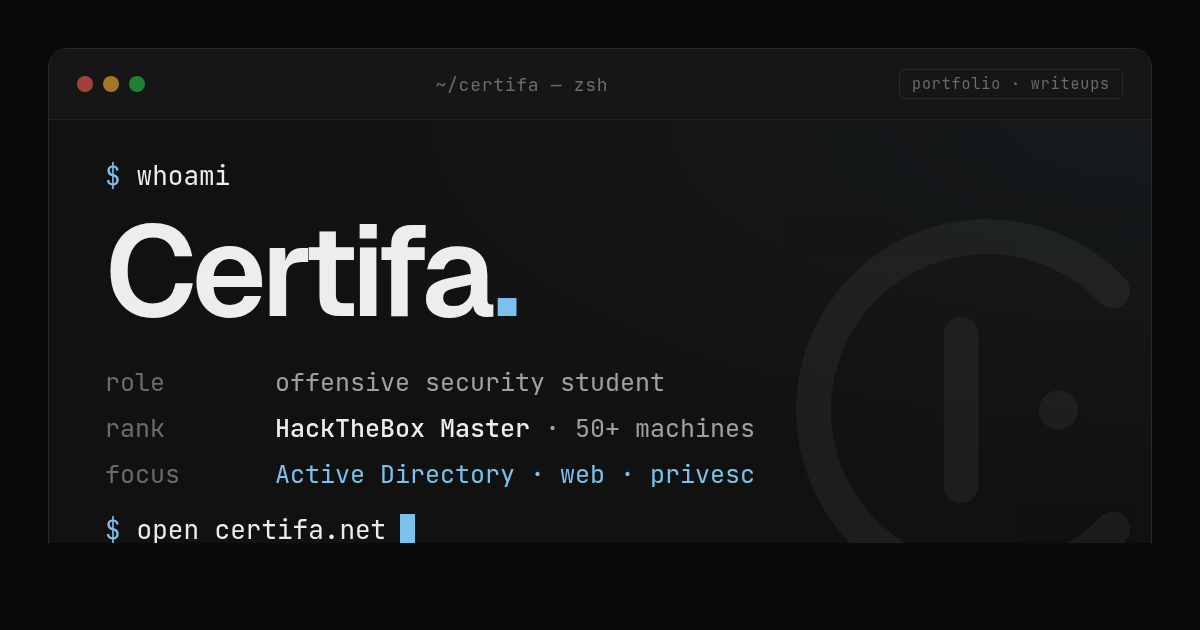
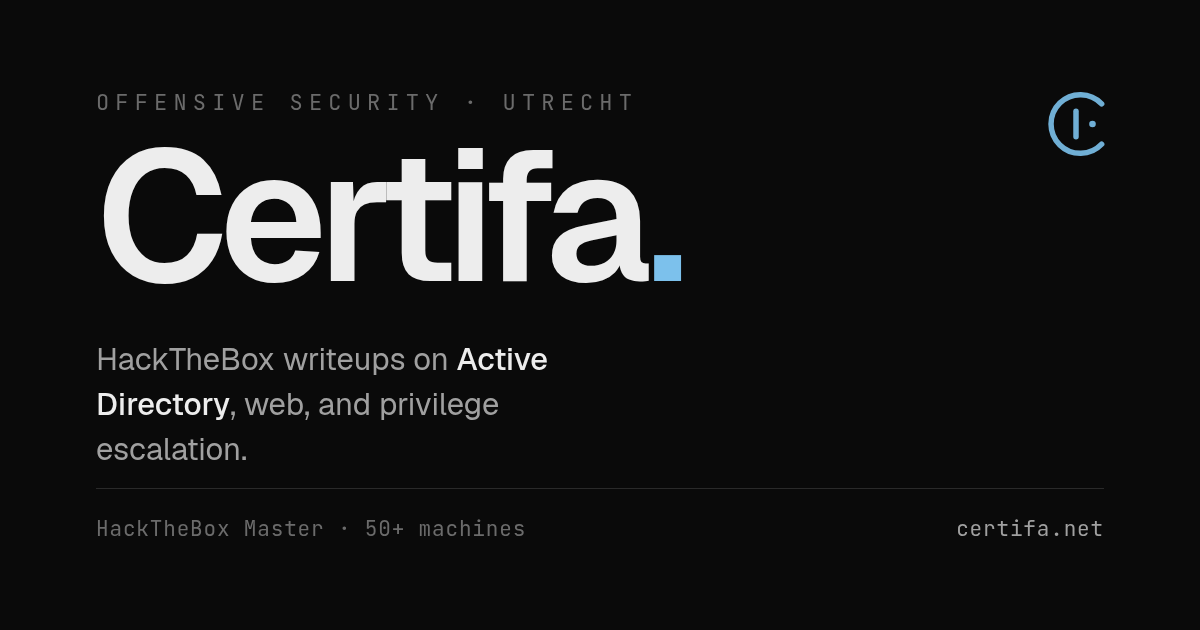
design(brand): replace terminal OG card with clean editorial masthead
Terminal-style card read as edgy/corny (against the "professional, not
edgy" brief). New card: big Certifa wordmark, mono kicker, one-line
descriptor, hairline footer — matches the site's editorial voice.

diff --git a/og-source.html b/og-source.html
@@ -1,143 +1,23 @@
-<!DOCTYPE html>
-<html>
-<head>
-<meta charset="utf-8">
-<link rel="preconnect" href="https://fonts.googleapis.com">
-<link rel="preconnect" href="https://fonts.gstatic.com" crossorigin>
-<link href="https://fonts.googleapis.com/css2?family=Geist:wght@500;600&family=JetBrains+Mono:wght@400;500&display=swap" rel="stylesheet">
+<!DOCTYPE html><html><head><meta charset="utf-8">
+<link href="https://fonts.googleapis.com/css2?family=Geist:wght@400;500;600&family=JetBrains+Mono:wght@400;500&family=Instrument+Serif:ital@1&display=swap" rel="stylesheet">
 <style>
-  * { margin: 0; padding: 0; box-sizing: border-box; }
-  html, body { width: 1200px; height: 630px; overflow: hidden; }
-  body {
-    background: #0a0a0a;
-    font-family: 'Geist', sans-serif;
-    display: flex;
-    align-items: center;
-    justify-content: center;
-  }
-  .term {
-    width: 1104px;
-    height: 534px;
-    background: #111111;
-    border: 1px solid #2a2a2a;
-    border-radius: 20px;
-    overflow: hidden;
-    display: flex;
-    flex-direction: column;
-    position: relative;
-  }
-  .head {
-    display: flex;
-    align-items: center;
-    gap: 14px;
-    padding: 20px 28px;
-    background: #161616;
-    border-bottom: 1px solid #222;
-    flex-shrink: 0;
-  }
-  .dots { display: flex; gap: 10px; }
-  .dots span { width: 16px; height: 16px; border-radius: 50%; opacity: 0.6; }
-  .dots span:nth-child(1) { background: #ff5f57; }
-  .dots span:nth-child(2) { background: #ffbd2e; }
-  .dots span:nth-child(3) { background: #28c940; }
-  .title {
-    flex: 1;
-    text-align: center;
-    font-family: 'JetBrains Mono', monospace;
-    font-size: 18px;
-    color: #6b6b6b;
-    letter-spacing: 0.04em;
-  }
-  .badge {
-    font-family: 'JetBrains Mono', monospace;
-    font-size: 15px;
-    color: #6b6b6b;
-    padding: 4px 12px;
-    border: 1px solid #2a2a2a;
-    border-radius: 6px;
-    letter-spacing: 0.06em;
-  }
-  .body {
-    flex: 1;
-    padding: 38px 56px 34px;
-    display: flex;
-    flex-direction: column;
-    position: relative;
-    background: radial-gradient(ellipse at top right, rgba(124, 193, 236, 0.05), transparent 60%), #111111;
-  }
-  .line {
-    font-family: 'JetBrains Mono', monospace;
-    font-size: 26px;
-    color: #ededed;
-  }
-  .line .pr { color: #7cc1ec; margin-right: 16px; }
-  .name {
-    font-weight: 600;
-    font-size: 128px;
-    letter-spacing: -0.04em;
-    line-height: 1;
-    color: #ededed;
-    margin: 14px 0 30px;
-  }
-  .name .dot { color: #7cc1ec; }
-  .kv {
-    font-family: 'JetBrains Mono', monospace;
-    font-size: 25px;
-    display: flex;
-    margin-bottom: 12px;
-  }
-  .kv .k { color: #6b6b6b; width: 170px; flex-shrink: 0; }
-  .kv .v { color: #a0a0a0; }
-  .kv .v b { color: #ededed; font-weight: 500; }
-  .kv .v .acc { color: #7cc1ec; }
-  .foot {
-    margin-top: auto;
-    display: flex;
-    align-items: center;
-    font-family: 'JetBrains Mono', monospace;
-    font-size: 26px;
-    color: #ededed;
-  }
-  .foot .pr { color: #7cc1ec; margin-right: 16px; }
-  .cursor {
-    display: inline-block;
-    width: 15px;
-    height: 32px;
-    background: #7cc1ec;
-    margin-left: 14px;
-    vertical-align: -4px;
-  }
-  .ghost {
-    position: absolute;
-    right: -70px;
-    top: 30px;
-    width: 520px;
-    height: 520px;
-    opacity: 0.05;
-    pointer-events: none;
-  }
-</style>
-</head>
-<body>
-  <div class="term">
-    <div class="head">
-      <div class="dots"><span></span><span></span><span></span></div>
-      <div class="title">~/certifa — zsh</div>
-      <div class="badge">portfolio · writeups</div>
-    </div>
-    <div class="body">
-      <svg class="ghost" viewBox="0 0 24 24" fill="none" stroke="#ededed" stroke-width="1.6" stroke-linecap="round" stroke-linejoin="round">
-        <path d="M19 6.5 A8 8 0 1 0 19 17.5"/>
-        <path d="M12 8.5 L12 15.5"/>
-        <circle cx="16.5" cy="12" r="0.9" fill="#ededed" stroke="none"/>
-      </svg>
-      <div class="line"><span class="pr">$</span>whoami</div>
-      <div class="name">Certifa<span class="dot">.</span></div>
-      <div class="kv"><span class="k">role</span><span class="v">offensive security student</span></div>
-      <div class="kv"><span class="k">rank</span><span class="v"><b>HackTheBox Master</b> · 50+ machines</span></div>
-      <div class="kv"><span class="k">focus</span><span class="v"><span class="acc">Active Directory · web · privesc</span></span></div>
-      <div class="foot"><span class="pr">$</span>open certifa.net<span class="cursor"></span></div>
-    </div>
-  </div>
-</body>
-</html>
+  *{margin:0;padding:0;box-sizing:border-box}
+  html,body{width:1200px;height:630px;overflow:hidden}
+  body{background:#0a0a0a;font-family:'Geist',sans-serif;padding:88px 96px;display:flex;flex-direction:column;position:relative}
+  .kicker{font-family:'JetBrains Mono',monospace;font-size:22px;color:#6b6b6b;letter-spacing:0.28em;text-transform:uppercase}
+  .name{font-weight:600;font-size:184px;letter-spacing:-0.045em;line-height:0.9;color:#ededed;margin-top:auto}
+  .name .dot{color:#7cc1ec}
+  .sub{font-size:31px;color:#a0a0a0;line-height:1.45;margin-top:38px;max-width:22ch}
+  .sub b{color:#ededed;font-weight:500}
+  .rule{height:1px;background:#2a2a2a;margin-top:auto}
+  .foot{display:flex;justify-content:space-between;align-items:center;margin-top:26px;font-family:'JetBrains Mono',monospace;font-size:21px;color:#6b6b6b;letter-spacing:0.04em}
+  .foot .site{color:#a0a0a0}
+  .glyph{position:absolute;right:80px;top:80px;width:88px;height:88px;color:#7cc1ec;opacity:0.9}
+</style></head><body>
+  <svg class="glyph" viewBox="0 0 24 24" fill="none" stroke="currentColor" stroke-width="1.5" stroke-linecap="round" stroke-linejoin="round"><path d="M19 6.5 A8 8 0 1 0 19 17.5"/><path d="M12 8.5 L12 15.5"/><circle cx="16.5" cy="12" r="0.9" fill="currentColor" stroke="none"/></svg>
+  <div class="kicker">Offensive Security · Utrecht</div>
+  <div class="name">Certifa<span class="dot">.</span></div>
+  <div class="sub">HackTheBox writeups on <b>Active Directory</b>, web, and privilege escalation.</div>
+  <div class="rule"></div>
+  <div class="foot"><span>HackTheBox Master · 50+ machines</span><span class="site">certifa.net</span></div>
+</body></html>